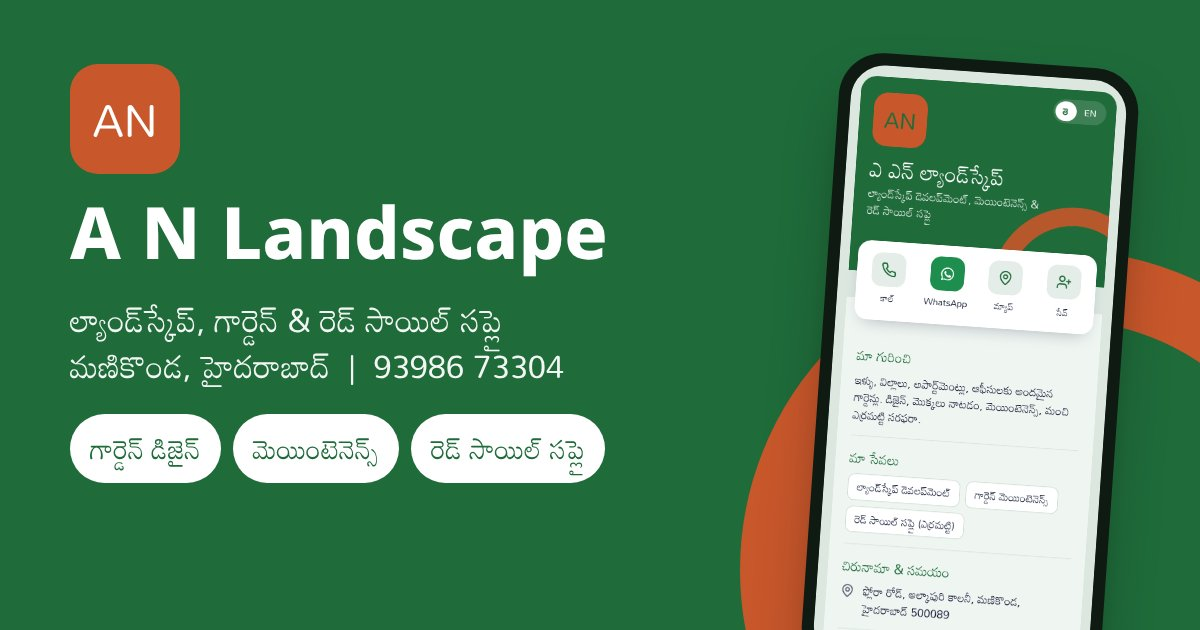
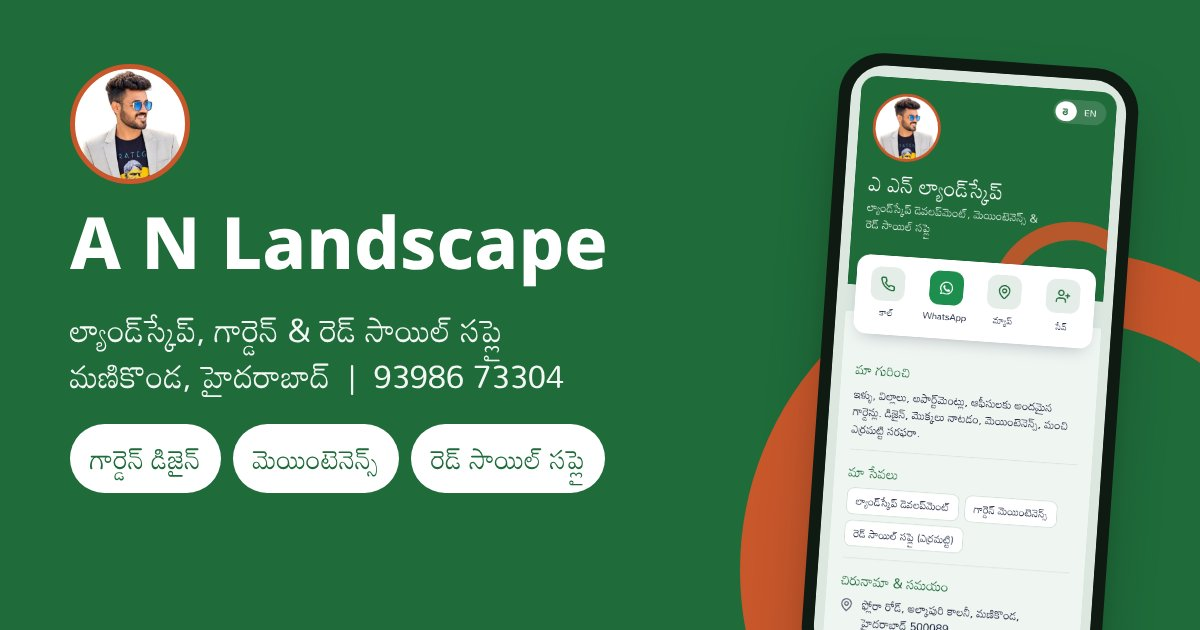
Add files via upload

diff --git a/c/an-landscape/index.html b/c/an-landscape/index.html
@@ -26,6 +26,7 @@ const CARD = {
   owner:    { en: "", te: "" },
   initials: "AN",
   logo:     "",
[1 lines of base64/hex data omitted]
   color:    "#1F6B3A",
   accent:   "#C8572B",
 
@@ -109,6 +110,8 @@ body{
   overflow:hidden; position:relative; z-index:1;
 }
 .logo img{width:100%;height:100%;object-fit:cover}
+.logo.has-photo{width:96px;height:96px;border-radius:50%;padding:0;background:#fff;border:4px solid var(--accent);overflow:hidden}
+.logo.has-photo img{width:100%;height:100%;object-fit:cover;object-position:center top;display:block}
 .logo.has-img{display:inline-flex;align-items:center;width:auto;height:auto;max-width:calc(100% - 110px);background:#fff;padding:10px 14px;border-radius:14px}
 .logo.has-img img{display:block;width:auto;height:36px;max-width:100%;object-fit:contain}
 h1{
@@ -318,10 +321,12 @@ function render(){
   document.querySelectorAll("[data-t]").forEach(el => el.textContent = T[lang][el.dataset.t]);
   document.querySelectorAll(".lang button").forEach(b => b.setAttribute("aria-pressed", b.dataset.l === lang));
 
-  $("logo").innerHTML = CARD.logo ? `<img src="${CARD.logo}" alt="">` : CARD.initials;
+  const pic = CARD.photo || CARD.logo;
+  $("logo").innerHTML = pic ? `<img src="${pic}" alt="">` : CARD.initials;
+  $("logo").classList.toggle("has-photo", !!CARD.photo);
   const li = $("logo").querySelector("img");
-  $("logo").classList.toggle("has-img", !!li);
-  if (li) li.onerror = () => { $("logo").classList.remove("has-img"); $("logo").textContent = CARD.initials; };
+  $("logo").classList.toggle("has-img", !!li && !CARD.photo);
+  if (li) li.onerror = () => { $("logo").classList.remove("has-img","has-photo"); $("logo").textContent = CARD.initials; };
   $("name").textContent = L(CARD.name);
   $("tagline").textContent = L(CARD.tagline);
   $("owner").textContent = L(CARD.owner);
